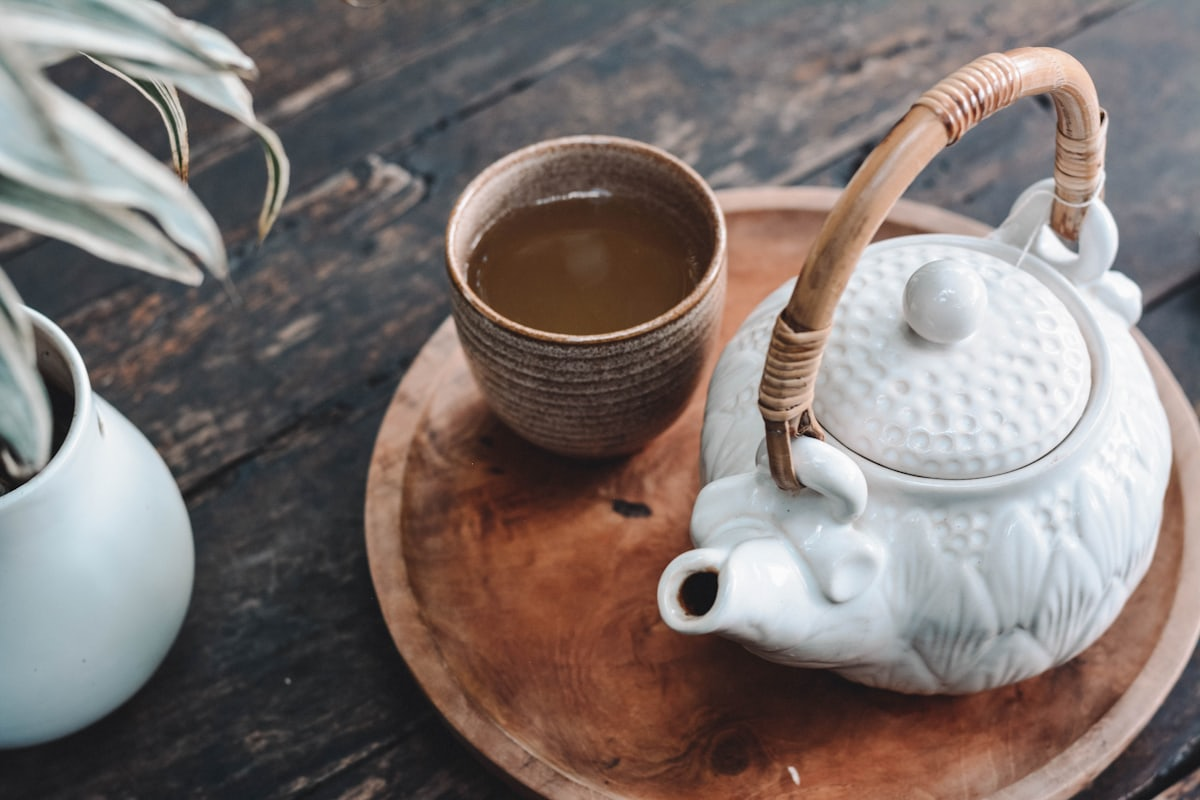
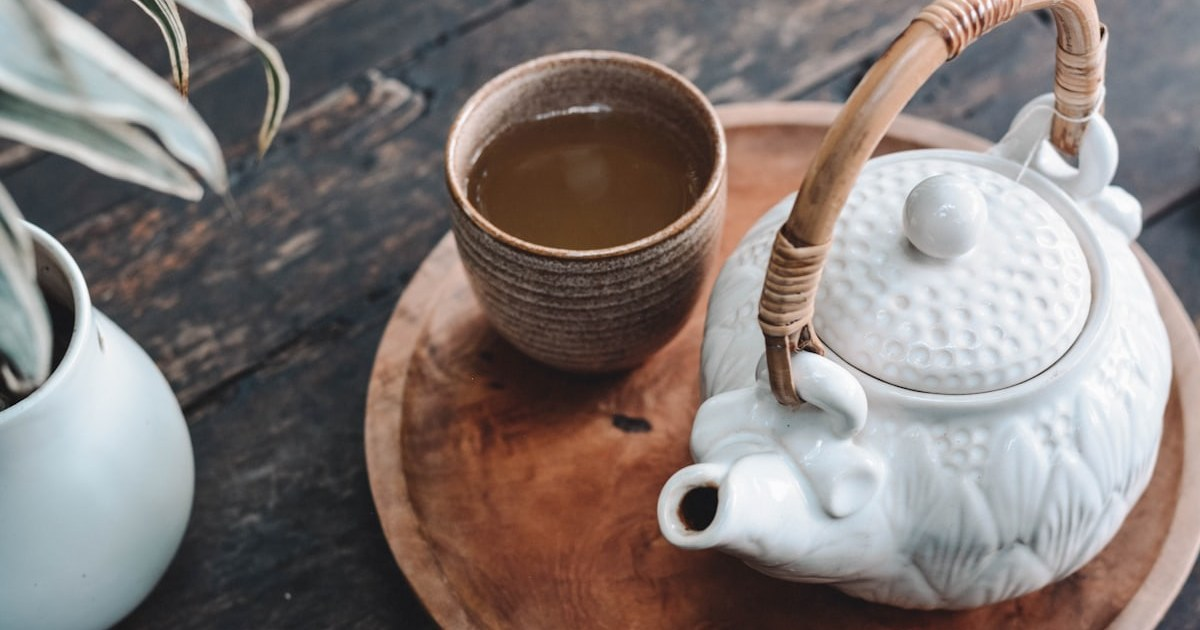
fix: порядок заголовков, подсказка объёма, неиспользуемые шрифты, размер og.jpg

diff --git a/app/components/FavoriteButton.tsx b/app/components/FavoriteButton.tsx
@@ -1,7 +1,7 @@
 "use client";
 
 import { HeartIcon } from "lucide-react";
-import { useEffect, useState } from "react";
+import { useCallback, useSyncExternalStore } from "react";
 import { isFavorite, toggleFavorite } from "@/lib/favorites";
 
 type Props = {
@@ -9,19 +9,16 @@ type Props = {
     className?: string;
 };
 
+function subscribe(onChange: () => void) {
+    window.addEventListener("justea-favorites-change", onChange);
+    return () => window.removeEventListener("justea-favorites-change", onChange);
+}
+
 export default function FavoriteButton({ slug, className = "" }: Props) {
-    const [favorite, setFavorite] = useState(false);
-
-    useEffect(() => {
-        setFavorite(isFavorite(slug));
-
-        function handleChange() {
-            setFavorite(isFavorite(slug));
-        }
-
-        window.addEventListener("justea-favorites-change", handleChange);
-        return () => window.removeEventListener("justea-favorites-change", handleChange);
-    }, [slug]);
+    // Избранное живёт в localStorage и меняется из любой карточки на странице —
+    // это внешнее хранилище, а не состояние компонента.
+    const getSnapshot = useCallback(() => isFavorite(slug), [slug]);
+    const favorite = useSyncExternalStore(subscribe, getSnapshot, () => false);
 
     return (
         <button
@@ -32,7 +29,7 @@ export default function FavoriteButton({ slug, className = "" }: Props) {
             onClick={(event) => {
                 event.preventDefault();
                 event.stopPropagation();
-                setFavorite(toggleFavorite(slug));
+                toggleFavorite(slug);
             }}
         >
             <HeartIcon

diff --git a/app/components/BrewInfo.tsx b/app/components/BrewInfo.tsx
@@ -15,6 +15,10 @@ export default function BrewInfo({ temperature, ratio }: Props) {
     <div className="flex flex-1 flex-col gap-1">
       <BrewTemperature temperature={temperature} />
       <BrewRatio ratio={ratio} />
+      {/* На мобильном стрелка не помещается, но без неё подчёркнутое «100»
+          выглядит случайным подчёркиванием, а не редактируемым полем —
+          поэтому там та же подсказка словами. */}
+      <p className="text-[14px] text-muted sm:hidden">Объём воды можно менять</p>
       <div className="relative mb-6 hidden h-[60px] sm:block">
         <ArrowHint className="absolute left-[121px] top-[19px]" position="bottom">
           <div className="text-[14px] leading-[18px] whitespace-nowrap select-none">

diff --git a/app/globals.css b/app/globals.css
@@ -36,12 +36,12 @@
   --color-focus: var(--focus);
   --color-surface: var(--surface);
 
-  /* Fonts */
+  /* Шрифты. Geist Sans и Geist Mono убраны: ни одного использования
+     font-geist / font-mono в проекте нет, а грузились и предзагружались они
+     на каждой странице. Загрузчики в layout.tsx снимает justea-seo. */
   --font-sans: var(--font-bainsley), sans-serif;
   --font-bainsley: var(--font-bainsley), sans-serif;
   --font-comfortaa: var(--font-comfortaa-sans), sans-serif;
-  --font-geist: var(--font-geist-sans), sans-serif;
-  --font-mono: var(--font-geist-mono), monospace;
 }
 
 /* You can define custom utility classes */

diff --git a/app/components/TeaDescriptionBlock.tsx b/app/components/TeaDescriptionBlock.tsx
@@ -14,7 +14,7 @@ export default function TeaDescriptionBlock({ title, descriptors }: Props) {
 
   return (
     <div className="flex-1">
-      <h3 className="mb-1.5 text-[22px] sm:text-[26px] lg:text-[28px]">{title}</h3>
+      <h2 className="mb-1.5 text-[22px] sm:text-[26px] lg:text-[28px]">{title}</h2>
       <p className="text-[17px] sm:text-[19px]">{inlineDescriptors}</p>
     </div>
   );
